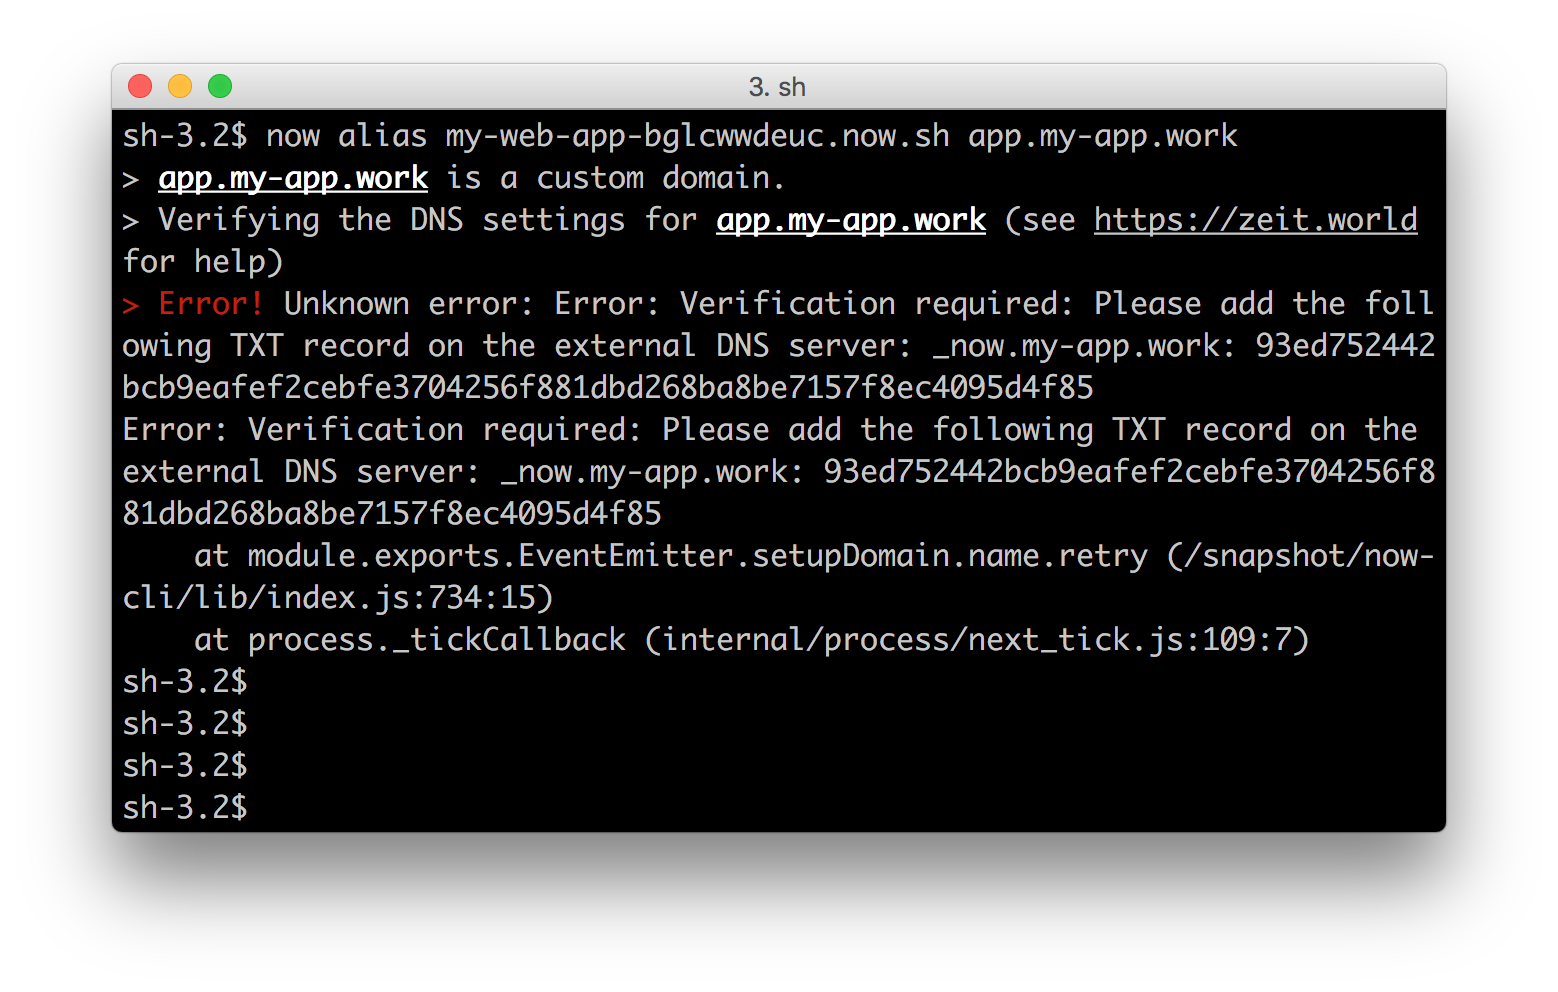
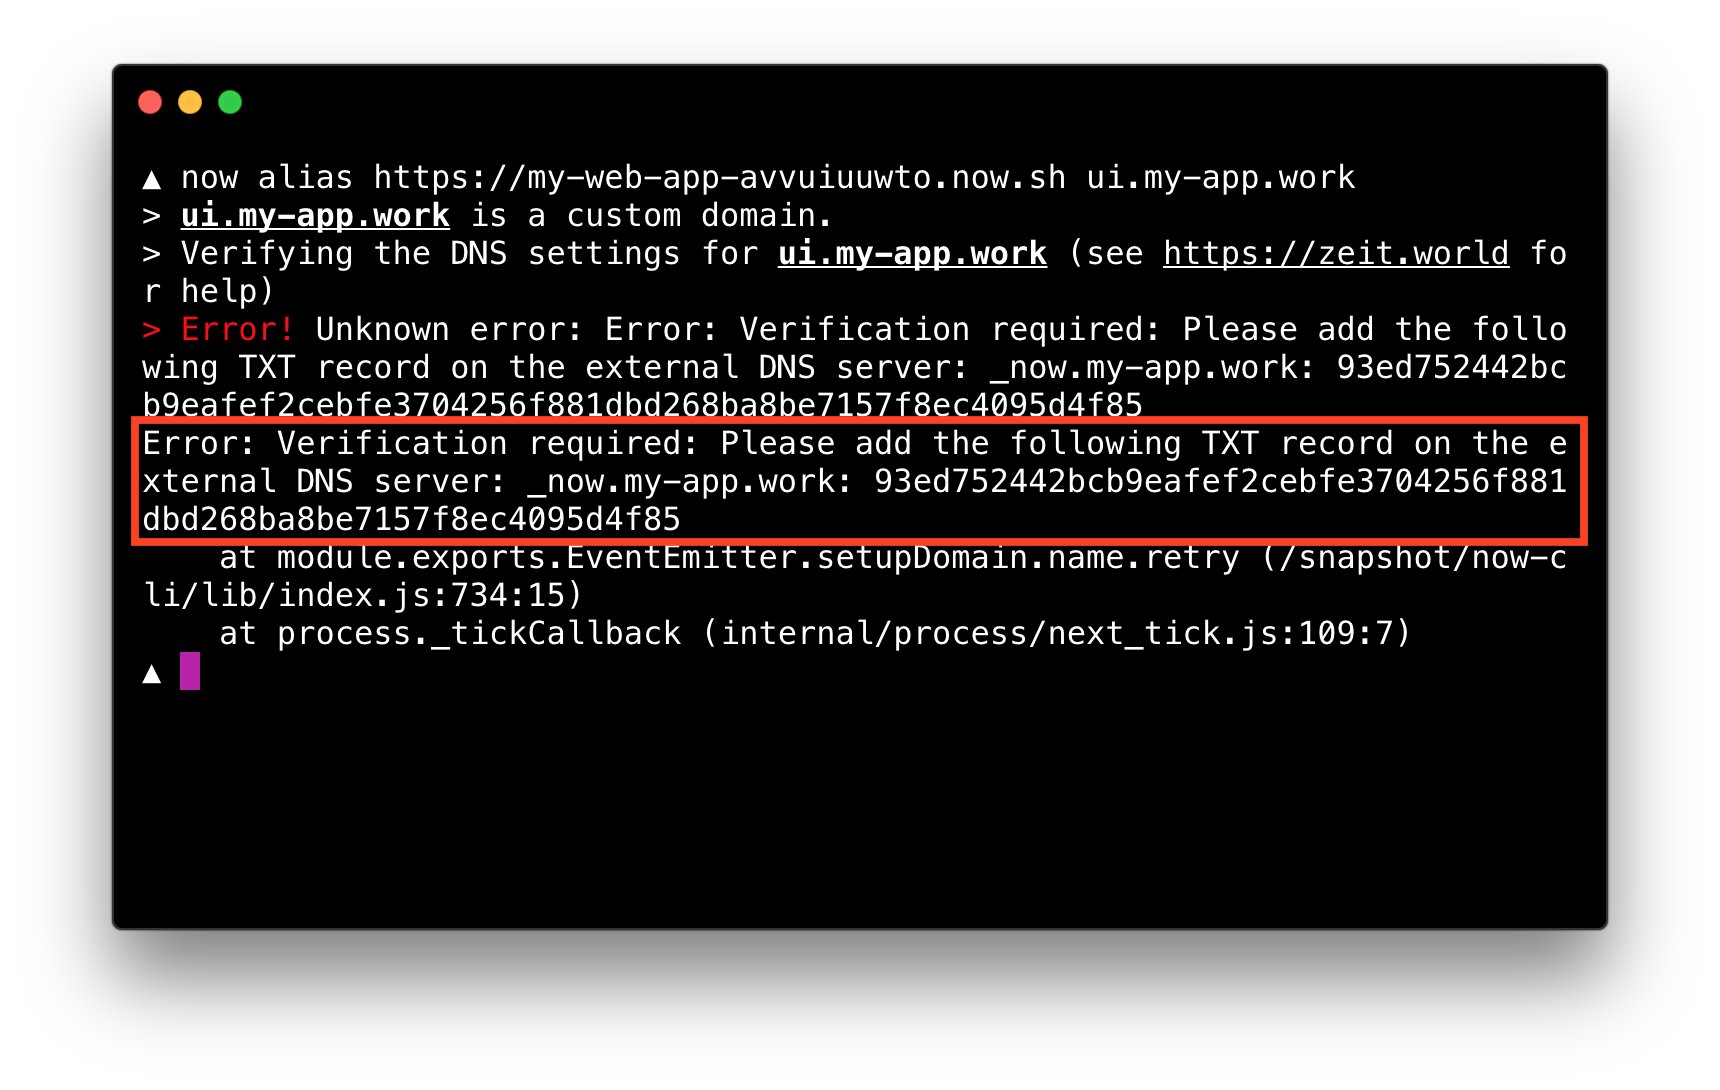
Update screenshots on assign-a-domain-name

Changed region(s): [[0.0616, 0.0312, 0.9551, 0.875]]

diff --git a/pages/docs/getting-started/assign-a-domain-name.js b/pages/docs/getting-started/assign-a-domain-name.js
@@ -14,7 +14,7 @@ export default withDoc({
   authors: [arunoda],
 })(markdown(components)`
 
-When you deploy an app with ▲now, you will have a unique deployment URL like this: <https://my-web-app-bglcwwdeuc.now.sh/>.
+When you deploy an app with ▲now, you will have a unique deployment URL like this: <https://my-web-app-avvuiuuwto.now.sh>.
 
 If you deploy your app multiple times, you will have multiple URLs. With these different deployment URLs, you can easily point users to a specific version of your app.
 
@@ -50,7 +50,7 @@ ${<HR/>}
 
 This method is the easiest way to use a domain name. To obtain a domain name with the \`now.sh\` postfix instantly, simply run the following command:
 
-${<TerminalInput>now alias https://my-web-app-bglcwwdeuc.now.sh my-web-app</TerminalInput>}
+${<TerminalInput>now alias https://my-web-app-avvuiuuwto.now.sh my-web-app</TerminalInput>}
 
 Your users may now access the above deployment URL using <https://my-web-app.now.sh>
 
@@ -60,7 +60,7 @@ If you want to use a custom domain for your app, the easiest method is to buy a 
 
 Simply run the following now alias command:
 
-${<TerminalInput>now alias https://my-web-app-bglcwwdeuc.now.sh my-web-app.com</TerminalInput>}
+${<TerminalInput>now alias https://my-web-app-avvuiuuwto.now.sh my-web-app.com</TerminalInput>}
 
 Here, we are attempting to assign the \`my-web-app.com\` domain name to the above deployment URL. If the domain name is available, you may confirm and buy it without leaving the terminal.
 
@@ -69,8 +69,8 @@ After the confirmation, ▲now will handle all the technical details for you and
 ${
   <Image
     src={`${ASSETS_URL}/docs/assign-a-domain-name/buy-domain.png`}
-    width={600}
-    height={407}
+    width={650}
+    height={412}
     caption="Confirmation you'll get after assigning a custom domain."
   />
 }
@@ -93,13 +93,13 @@ For example, assume that your domain name is \`my-custom-domain.com\`.
 
 After you have set up the nameservers, simply run the following \`now alias\` command:
 
-${<TerminalInput>now alias https://my-web-app-bglcwwdeuc.now.sh/ my-custom-domain.com</TerminalInput>}
+${<TerminalInput>now alias https://my-web-app-avvuiuuwto.now.sh my-custom-domain.com</TerminalInput>}
 
 Then, you can access your app using <https://my-custom-domain.com>.
 
 You can also use a subdomain of \`my-custom-domain.com\` like this:
 
-${<TerminalInput>now alias https://my-web-app-bglcwwdeuc.now.sh/ ui.my-custom-domain.com</TerminalInput>}
+${<TerminalInput>now alias https://my-web-app-avvuiuuwto.now.sh ui.my-custom-domain.com</TerminalInput>}
 
 > Even in this process, ▲now will set up a [Let's Encrypt](https://letsencrypt.org/) SSL certificate for your domain automatically.
 
@@ -109,19 +109,19 @@ If you are managing a DNS setup for your domain, you can use this option.
 
 For example, assume you have a domain name called \`my-app.work\` and you already have a DNS setup for that.
 
-To map the \`app.my-app.work\` domain for one of the deployment URLs of your app, visit your DNS provider and add a CNAME record for \`app.my-app.work\` pointing to \`alias.zeit.co\`.
+To map the \`ui.my-app.work\` domain for one of the deployment URLs of your app, visit your DNS provider and add a CNAME record for \`ui.my-app.work\` pointing to \`alias.zeit.co\`.
 
 After that, run the following command:
 
-${<TerminalInput>now alias https://my-web-app-bglcwwdeuc.now.sh/ app.my-app.work</TerminalInput>}
+${<TerminalInput>now alias https://my-web-app-avvuiuuwto.now.sh ui.my-app.work</TerminalInput>}
 
 You will then have an error like this:
 
 ${
   <Image
     src={`${ASSETS_URL}/docs/assign-a-domain-name/alias-error.png`}
-    width={600}
-    height={382}
+    width={650}
+    height={412}
     caption="Error message you'll get when trying to alias a domain for the first time."
   />
 }
@@ -131,9 +131,9 @@ ${
 * Next, add the TXT record as mentioned above error message.
 * Run the \`now alias\` command again:
 
-${<TerminalInput>now alias https://my-web-app-bglcwwdeuc.now.sh/ app.my-app.work</TerminalInput>}
+${<TerminalInput>now alias https://my-web-app-avvuiuuwto.now.sh ui.my-app.work</TerminalInput>}
 
-Now you may access your app using <https://app.my-app.work>
+Now you may access your app using <https://ui.my-app.work>
 
 > In this case, ▲now will setup a [Let's Encrypt](https://letsencrypt.org/) SSL certificate for your domain. However, before you do that, you need to verify the domain.
 
